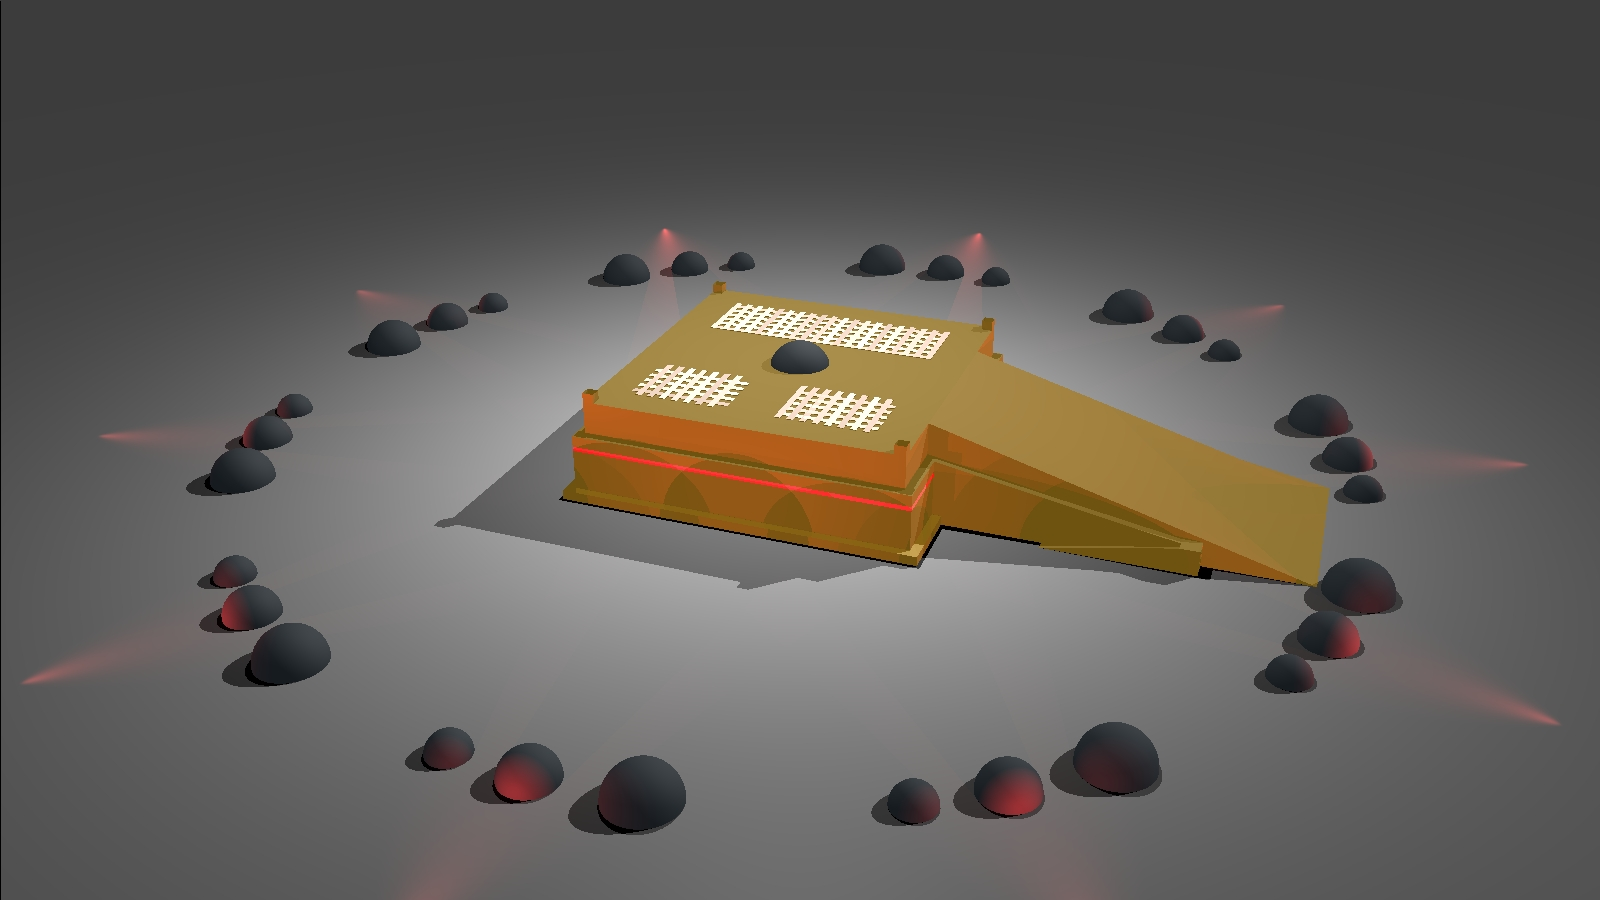
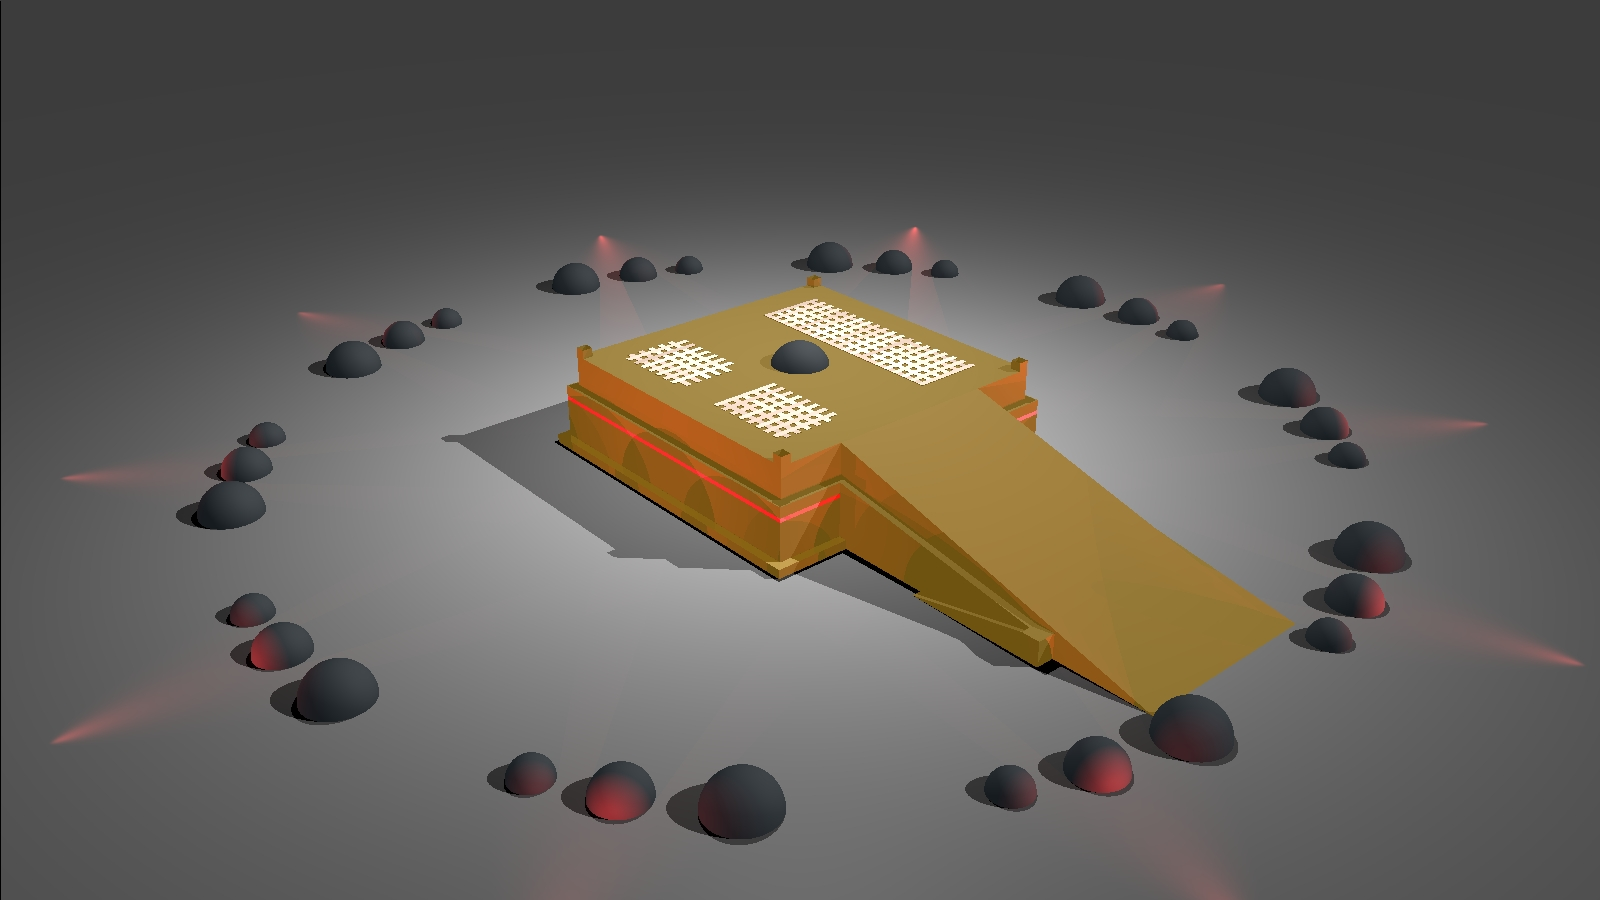
Mitbeah

diff --git a/src/unittests/renderer/BoxTests.java b/src/unittests/renderer/BoxTests.java
@@ -238,9 +238,9 @@ public class BoxTests {
     }
 
     @Test
-    public void mizbeachTast1() {
+    public void mizbeachTast() {
         Scene scene = new Scene("mizbeah");
-        scene.setCamera(new Camera(new Point3D(0, 0, 0), 2500, 3.75, 1.1, Math.PI));
+        scene.setCamera(new Camera(new Point3D(0, 0, 0), 2500, 4, 1.1, Math.PI));
         //scene.getCamera().setDepthOfField(2500, 32, 100);
         scene.setDistance(300);
         scene.setBackground(Color.BLACK);
